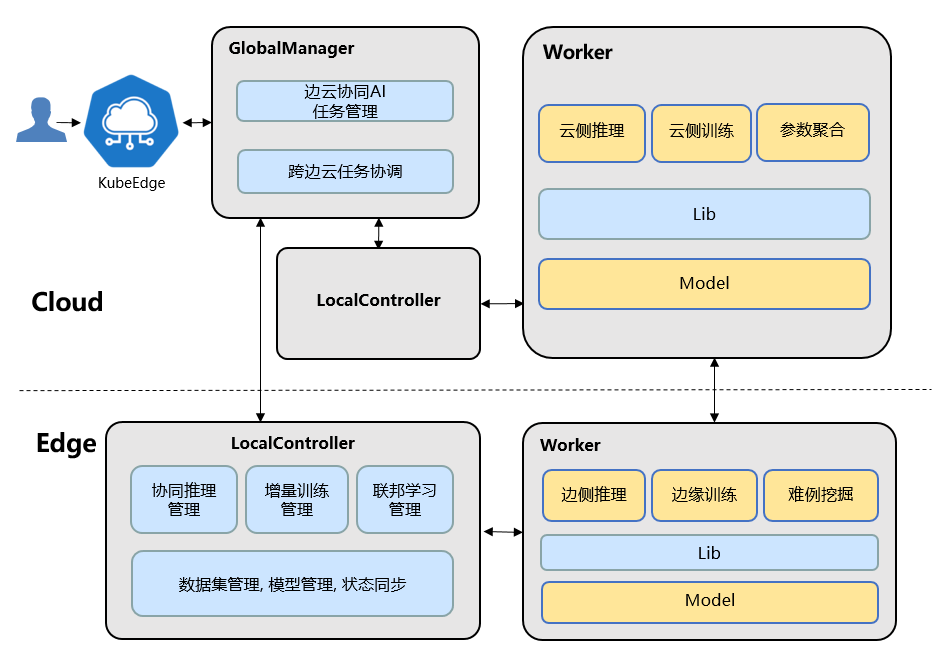
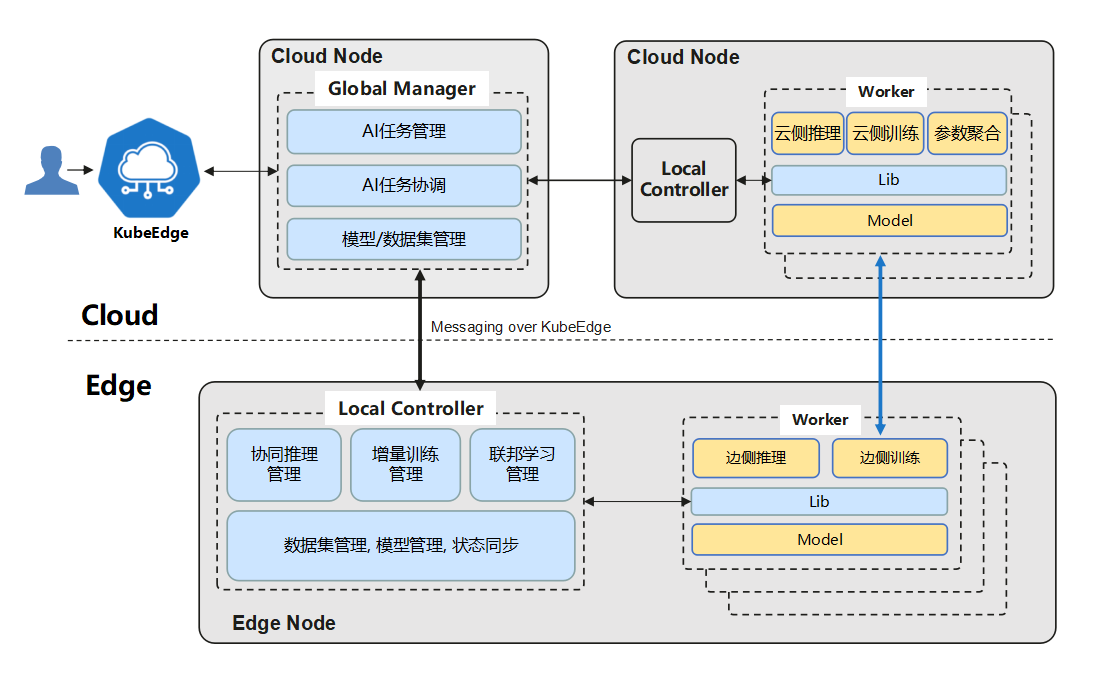
Update README
1. remove preview description
2. update framework of english/chinese

diff --git a/README_zh.md b/README_zh.md
@@ -7,8 +7,6 @@
 ## 什么是Sedna?
 Sedna是在KubeEdge SIG AI中孵化的一个边云协同AI项目。得益于KubeEdge提供的边云协同能力，Sedna可以实现跨边云的协同训练和协同推理能力，如联合推理、增量学习、联邦学习等。Sedna支持目前广泛使用的AI框架，如TensorFlow/Pytorch/PaddlePaddle/MindSpore等，现有AI类应用可以无缝迁移到Sedna, 快速实现边云协同的训练和推理，可在降低成本、提升模型性能、保护数据隐私等方面获得提升。
 
-**目前项目处于preview状态，正在推动进入KubeEdge社区**
-
 ## 项目特性
 Sedna具有如下特性：
 * 提供边云协同AI基础框架

diff --git a/README.md b/README.md
@@ -11,8 +11,6 @@ Sedna is an edge-cloud synergy AI project incubated in KubeEdge SIG AI. Benefiti
 Sedna can simply enable edge-cloud synergy capabilities to existing training and inference scripts, bringing the benefits of reducing costs, improving model performance, and protecting data privacy.
 
 
-**Currently, this project is in the preview and being promoted to enter the KubeEdge community.**
-
 ## Features
     
 Sedna has the following features：  
